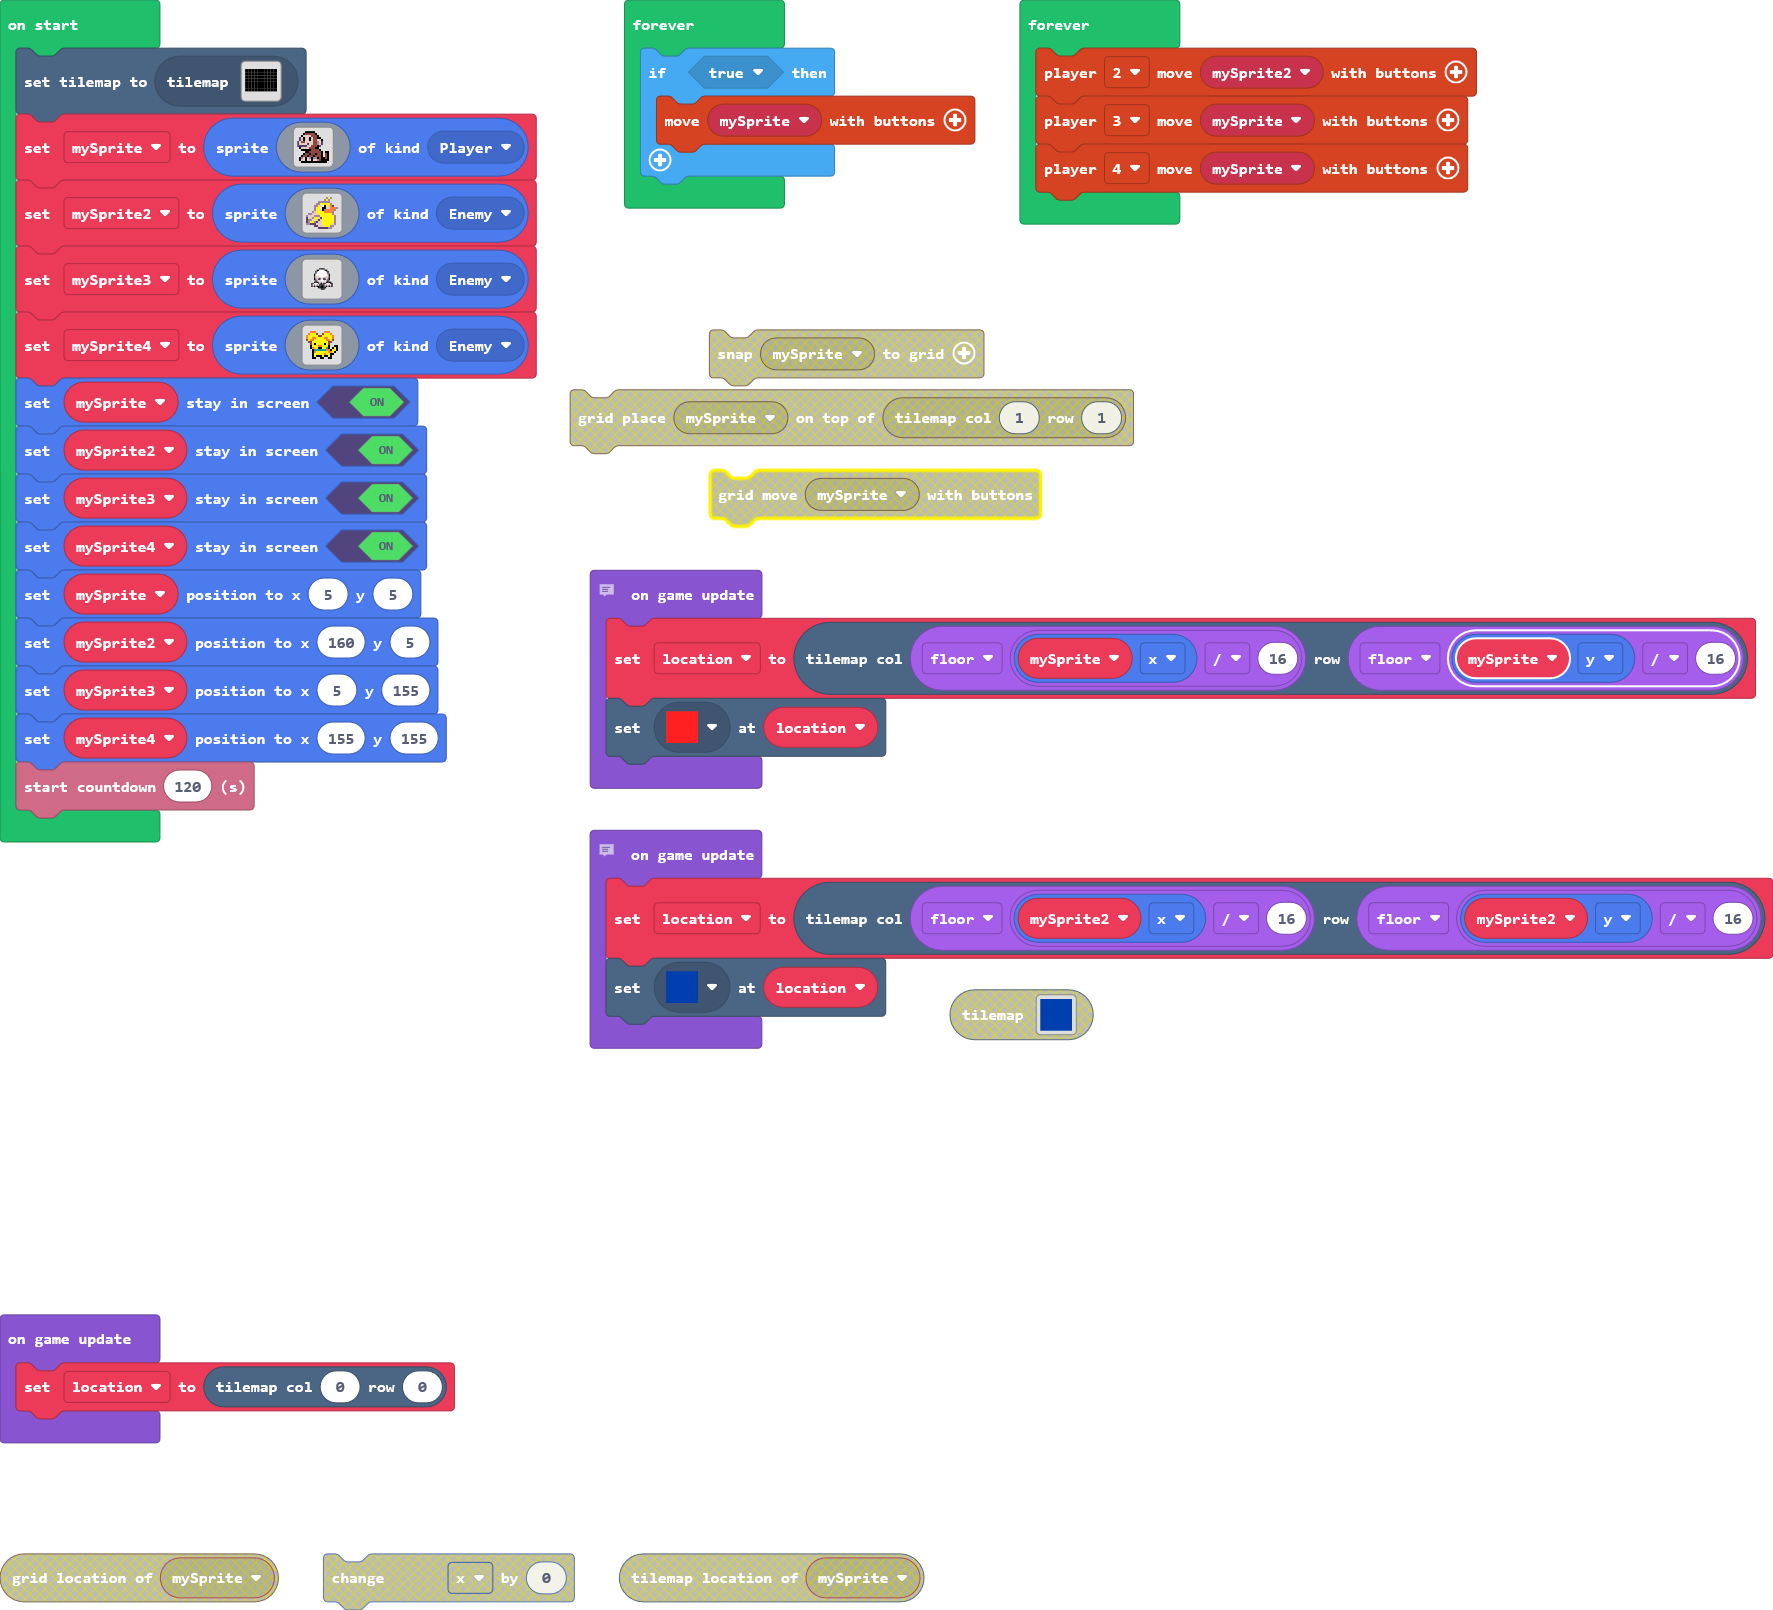
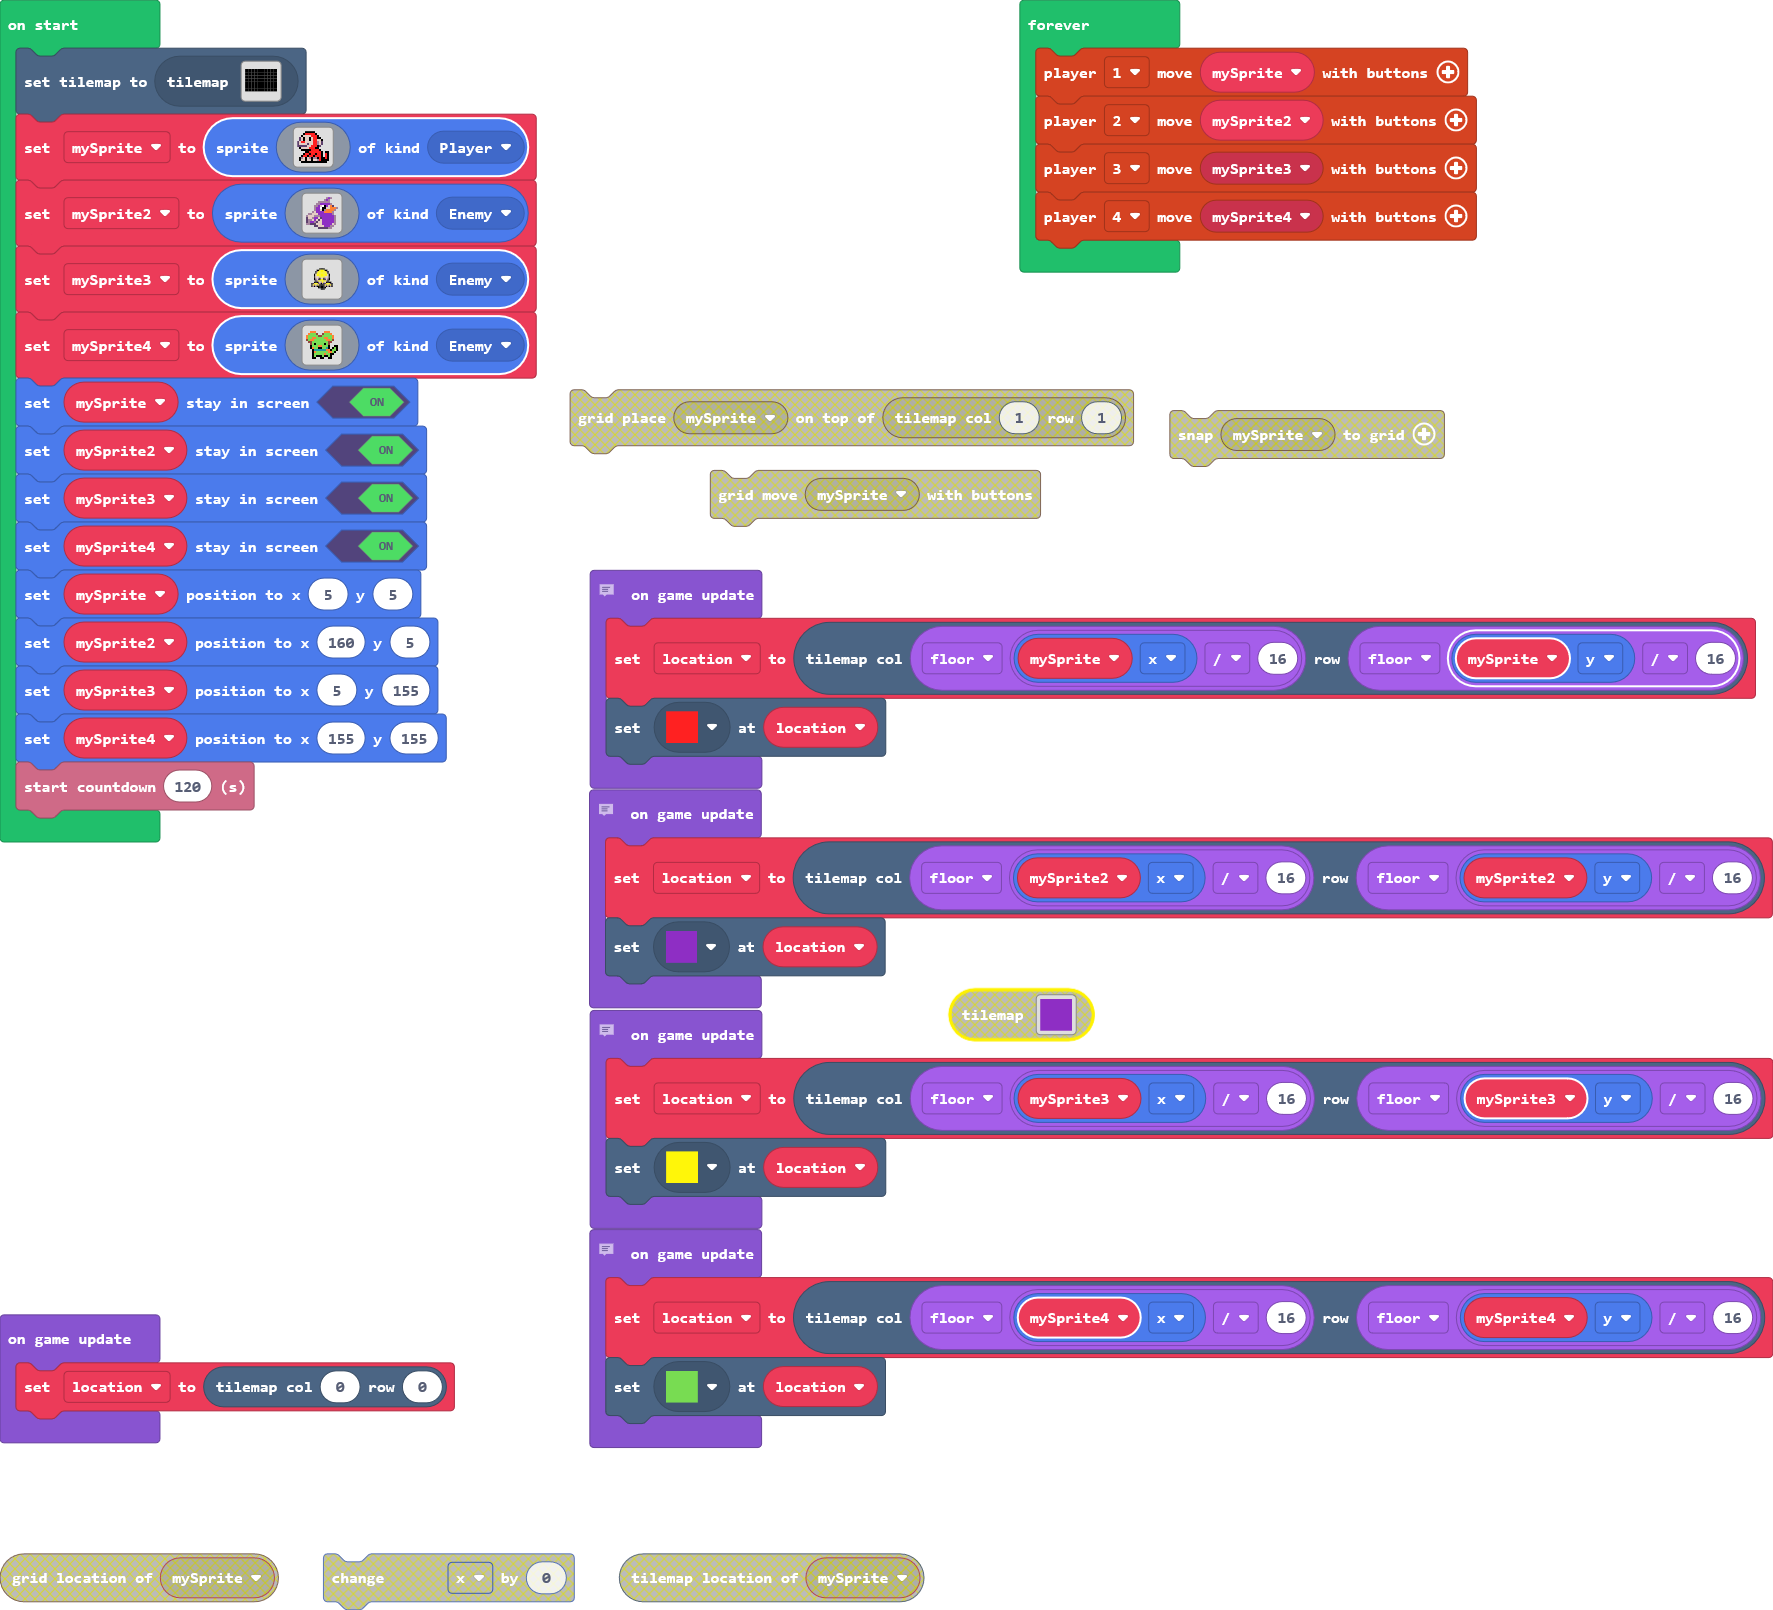
Update main.blocks, main.ts, tilemap.g.jres, tilemap.g.ts

diff --git a/main.ts b/main.ts
@@ -2,38 +2,38 @@ let location: tiles.Location = null
 tiles.setCurrentTilemap(tilemap`level6`)
 let mySprite = sprites.create(img`
     . . . . f f f f f . . . . . . . 
-    . . . f e e e e e f . . . . . . 
-    . . f d d d d e e e f . . . . . 
-    . c d f d d f d e e f f . . . . 
-    . c d f d d f d e e d d f . . . 
-    c d e e d d d d e e b d c . . . 
-    c d d d d c d d e e b d c . . . 
-    c c c c c d d e e e f c . . . . 
-    . f d d d d e e e f f . . . . . 
-    . . f f f f f e e e e f . . . . 
-    . . . . f f e e e e e e f . f f 
-    . . . f e e f e e f e e f . e f 
-    . . f e e f e e f e e e f . e f 
-    . f b d f d b f b b f e f f e f 
-    . f d d f d d f d d b e f f f f 
+    . . . f 2 2 2 2 2 f . . . . . . 
+    . . f d d d d 2 2 2 f . . . . . 
+    . c d f d d f d 2 2 f f . . . . 
+    . c d f d d f d 2 2 d d f . . . 
+    c d 2 2 d d d d 2 2 b d c . . . 
+    c d d d d c d d 2 2 b d c . . . 
+    c c c c c d d 2 2 2 f c . . . . 
+    . f d d d d 2 2 2 f f . . . . . 
+    . . f f f f f 2 2 2 2 f . . . . 
+    . . . . f f 2 2 2 2 2 2 f . f f 
+    . . . f 2 2 f 2 2 f 2 2 f . 2 f 
+    . . f 2 2 f 2 2 f 2 2 2 f . 2 f 
+    . f b d f d b f b b f 2 f f 2 f 
+    . f d d f d d f d d b 2 f f f f 
     . . f f f f f f f f f f f f f . 
     `, SpriteKind.Player)
 let mySprite2 = sprites.create(img`
-    . . . . . . . . . . b 5 b . . . 
-    . . . . . . . . . b 5 b . . . . 
+    . . . . . . . . . . b a b . . . 
+    . . . . . . . . . b a b . . . . 
     . . . . . . b b b b b b . . . . 
-    . . . . . b b 5 5 5 5 5 b . . . 
-    . . . . b b 5 d 1 f 5 d 4 c . . 
-    . . . . b 5 5 1 f f d d 4 4 4 b 
-    . . . . b 5 5 d f b 4 4 4 4 b . 
-    . . . b d 5 5 5 5 4 4 4 4 b . . 
-    . b b d d d 5 5 5 5 5 5 5 b . . 
-    b d d d b b b 5 5 5 5 5 5 5 b . 
-    c d d b 5 5 d c 5 5 5 5 5 5 b . 
-    c b b d 5 d c d 5 5 5 5 5 5 b . 
-    c b 5 5 b c d d 5 5 5 5 5 5 b . 
-    b b c c c d d d 5 5 5 5 5 d b . 
-    . . . . c c d d d 5 5 5 b b . . 
+    . . . . . b b a a a a a b . . . 
+    . . . . b b a d 1 f a d 4 c . . 
+    . . . . b a a 1 f f d d 4 4 4 b 
+    . . . . b a a d f b 4 4 4 4 b . 
+    . . . b d a a a a 4 4 4 4 b . . 
+    . b b d d d a a a a a a a b . . 
+    b d d d b b b a a a a a a a b . 
+    c d d b a a d c a a a a a a b . 
+    c b b d a d c d a a a a a a b . 
+    c b a a b c d d a a a a a a b . 
+    b b c c c d d d a a a a a d b . 
+    . . . . c c d d d a a a b b . . 
     . . . . . . c c c c c b b . . . 
     `, SpriteKind.Enemy)
 let mySprite3 = sprites.create(img`
@@ -42,18 +42,18 @@ let mySprite3 = sprites.create(img`
     ........................
     ........................
     ..........ffff..........
-    ........ff1111ff........
-    .......fb111111bf.......
-    .......f11111111f.......
-    ......fd11111111df......
-    ......fd11111111df......
-    ......fddd1111dddf......
+    ........ff5555ff........
+    .......fb555555bf.......
+    .......f55555555f.......
+    ......fd55555555df......
+    ......fd55555555df......
+    ......fddd5555dddf......
     ......fbdbfddfbdbf......
-    ......fcdcf11fcdcf......
-    .......fb111111bf.......
-    ......fffcdb1bdffff.....
-    ....fc111cbfbfc111cf....
-    ....f1b1b1ffff1b1b1f....
+    ......fcdcf55fcdcf......
+    .......fb555555bf.......
+    ......fffcdb5bdffff.....
+    ....fc555cbfbfc555cf....
+    ....f5b5b5ffff5b5b5f....
     ....fbfbffffffbfbfbf....
     .........ffffff.........
     ...........fff..........
@@ -64,18 +64,18 @@ let mySprite3 = sprites.create(img`
     `, SpriteKind.Enemy)
 let mySprite4 = sprites.create(img`
     . . 4 4 4 . . . . 4 4 4 . . . . 
-    . 4 5 5 5 e . . e 5 5 5 4 . . . 
-    4 5 5 5 5 5 e e 5 5 5 5 5 4 . . 
-    4 5 5 4 4 5 5 5 5 4 4 5 5 4 . . 
-    e 5 4 4 5 5 5 5 5 5 4 4 5 e . . 
-    . e e 5 5 5 5 5 5 5 5 e e . . . 
-    . . e 5 f 5 5 5 5 f 5 e . . . . 
-    . . f 5 5 5 4 4 5 5 5 f . . f f 
-    . . f 4 5 5 f f 5 5 6 f . f 5 f 
-    . . . f 6 6 6 6 6 6 4 4 f 5 5 f 
-    . . . f 4 5 5 5 5 5 5 4 4 5 f . 
-    . . . f 5 5 5 5 5 4 5 5 f f . . 
-    . . . f 5 f f f 5 f f 5 f . . . 
+    . 4 7 7 7 e . . e 7 7 7 4 . . . 
+    4 7 7 7 7 7 e e 7 7 7 7 7 4 . . 
+    4 7 7 4 4 7 7 7 7 4 4 7 7 4 . . 
+    e 7 4 4 7 7 7 7 7 7 4 4 7 e . . 
+    . e e 7 7 7 7 7 7 7 7 e e . . . 
+    . . e 7 f 7 7 7 7 f 7 e . . . . 
+    . . f 7 7 7 4 4 7 7 7 f . . f f 
+    . . f 4 7 7 f f 7 7 6 f . f 7 f 
+    . . . f 6 6 6 6 6 6 4 4 f 7 7 f 
+    . . . f 4 7 7 7 7 7 7 4 4 7 f . 
+    . . . f 7 7 7 7 7 4 7 7 f f . . 
+    . . . f 7 f f f 7 f f 7 f . . . 
     . . . f f . . f f . . f f . . . 
     `, SpriteKind.Enemy)
 mySprite.setStayInScreen(true)
@@ -95,18 +95,24 @@ game.onUpdate(function () {
 // This function will update the tile color as the Duck sprite moves
 game.onUpdate(function () {
     location = tiles.getTileLocation(Math.floor(mySprite2.x / 16), Math.floor(mySprite2.y / 16))
-    tiles.setTileAt(location, assets.tile`myTile4`)
+    tiles.setTileAt(location, assets.tile`myTile8`)
+})
+// This function will update the tile color as the Duck sprite moves
+game.onUpdate(function () {
+    location = tiles.getTileLocation(Math.floor(mySprite3.x / 16), Math.floor(mySprite3.y / 16))
+    tiles.setTileAt(location, assets.tile`myTile7`)
+})
+// This function will update the tile color as the Duck sprite moves
+game.onUpdate(function () {
+    location = tiles.getTileLocation(Math.floor(mySprite4.x / 16), Math.floor(mySprite4.y / 16))
+    tiles.setTileAt(location, assets.tile`myTile5`)
 })
 game.onUpdate(function () {
     location = tiles.getTileLocation(0, 0)
 })
 forever(function () {
-    if (true) {
-        controller.moveSprite(mySprite)
-    }
-})
-forever(function () {
+    controller.player1.moveSprite(mySprite)
     controller.player2.moveSprite(mySprite2)
-    controller.player3.moveSprite(mySprite)
-    controller.player4.moveSprite(mySprite)
+    controller.player3.moveSprite(mySprite3)
+    controller.player4.moveSprite(mySprite4)
 })

diff --git a/tilemap.g.ts b/tilemap.g.ts
@@ -14,6 +14,14 @@ namespace myTiles {
     export const tile5 = image.ofBuffer(hex``);
     //% fixedInstance jres blockIdentity=images._tile
     export const tile6 = image.ofBuffer(hex``);
+    //% fixedInstance jres blockIdentity=images._tile
+    export const tile7 = image.ofBuffer(hex``);
+    //% fixedInstance jres blockIdentity=images._tile
+    export const tile8 = image.ofBuffer(hex``);
+    //% fixedInstance jres blockIdentity=images._tile
+    export const tile9 = image.ofBuffer(hex``);
+    //% fixedInstance jres blockIdentity=images._tile
+    export const tile10 = image.ofBuffer(hex``);
 
     helpers._registerFactory("tilemap", function(name: string) {
         switch(helpers.stringTrim(name)) {
@@ -396,10 +404,29 @@ namespace myTiles {
 . . . . . . . . . . . . . . . . 
 . . . . . . . . . . . . . . . . 
 `, [myTiles.transparency16], TileScale.Sixteen);
+            case "level25":
+            case "level25":return tiles.createTilemap(hex`1000100000000000000000000000000000000000000000000000000000000000000000000000000000000000000000000000000000000000000000000000000000000000000000000000000000000000000000000000000000000000000000000000000000000000000000000000000000000000000000000000000000000000000000000000000000000000000000000000000000000000000000000000000000000000000000000000000000000000000000000000000000000000000000000000000000000000000000000000000000000000000000000000000000000000000000000000000000000000000000000000000000000000000000000000000000000000`, img`
+. . . . . . . . . . . . . . . . 
+. . . . . . . . . . . . . . . . 
+. . . . . . . . . . . . . . . . 
+. . . . . . . . . . . . . . . . 
+. . . . . . . . . . . . . . . . 
+. . . . . . . . . . . . . . . . 
+. . . . . . . . . . . . . . . . 
+. . . . . . . . . . . . . . . . 
+. . . . . . . . . . . . . . . . 
+. . . . . . . . . . . . . . . . 
+. . . . . . . . . . . . . . . . 
+. . . . . . . . . . . . . . . . 
+. . . . . . . . . . . . . . . . 
+. . . . . . . . . . . . . . . . 
+. . . . . . . . . . . . . . . . 
+. . . . . . . . . . . . . . . . 
+`, [myTiles.transparency16], TileScale.Sixteen);
             case "level24":
             case "level24":return tiles.createTilemap(hex`0100010001`, img`
 . 
-`, [myTiles.transparency16,myTiles.tile6], TileScale.Sixteen);
+`, [myTiles.transparency16,myTiles.tile10], TileScale.Sixteen);
         }
         return null;
     })
@@ -419,6 +446,14 @@ namespace myTiles {
             case "tile5":return tile5;
             case "myTile4":
             case "tile6":return tile6;
+            case "myTile5":
+            case "tile7":return tile7;
+            case "myTile6":
+            case "tile8":return tile8;
+            case "myTile7":
+            case "tile9":return tile9;
+            case "myTile8":
+            case "tile10":return tile10;
         }
         return null;
     })
